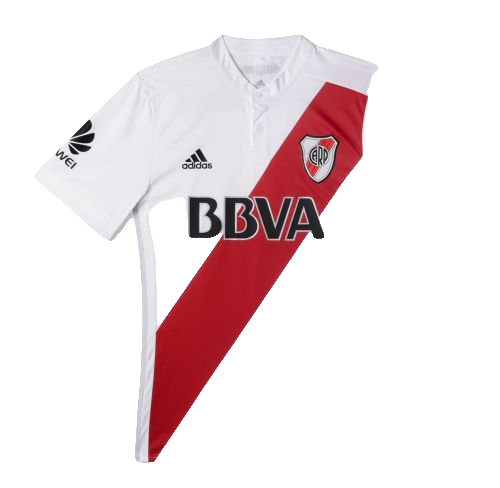
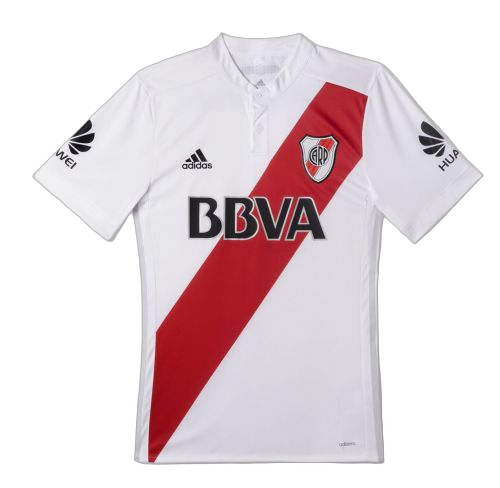
fix: re-cut 13 jerseys whose parts were erased (birefnet model)
The isnet pass erased white-on-white areas on some shirts (Maldini, Messi
2022, etc.). Detected them via alpha-channel analysis (scripts/check_cutouts.py)
and reprocessed only those from the originals with the stronger birefnet-general
model. Re-check now reports 0/70 with holes.

diff --git a/scripts/reprocess_bad.py b/scripts/reprocess_bad.py
@@ -1,0 +1,43 @@
+"""Reprocesa con un modelo mejor (birefnet) solo los recortes detectados como malos.
+Necesita los originales (jpg/jpeg/webp) presentes junto a los PNG.
+"""
+import pathlib
+import numpy as np
+from PIL import Image
+from scipy import ndimage
+from rembg import remove, new_session
+
+root = pathlib.Path("public/camisetas")
+SRC_EXTS = [".jpg", ".jpeg", ".webp"]
+
+
+def is_bad(p):
+    arr = np.array(Image.open(p).convert("RGBA"))
+    alpha = arr[..., 3] > 30
+    fg = int(alpha.sum())
+    if fg == 0:
+        return True
+    cov = fg / alpha.size
+    filled = ndimage.binary_fill_holes(alpha)
+    hole = (int(filled.sum()) - fg) / max(int(filled.sum()), 1)
+    lbl, n = ndimage.label(alpha)
+    sizes = ndimage.sum(np.ones_like(lbl), lbl, range(1, n + 1)) if n else np.array([0])
+    largest = sizes.max() / fg
+    return hole > 0.03 or cov < 0.15 or largest < 0.85
+
+
+bad = [p for p in sorted(root.rglob("*.png")) if is_bad(p)]
+print(f"{len(bad)} recortes a rehacer")
+session = new_session("birefnet-general")
+
+for i, p in enumerate(bad, 1):
+    src = next((p.with_suffix(e) for e in SRC_EXTS if p.with_suffix(e).exists()), None)
+    if not src:
+        print(f"[{i}/{len(bad)}] SIN ORIGINAL {p.name}")
+        continue
+    with Image.open(src) as im:
+        result = remove(im.convert("RGBA"), session=session)
+    result.save(p)
+    print(f"[{i}/{len(bad)}] rehecho {p.name}")
+
+print("Listo.")

diff --git a/scripts/check_cutouts.py b/scripts/check_cutouts.py
@@ -1,0 +1,29 @@
+"""Detecta recortes con partes borradas: huecos internos, baja cobertura o fragmentacion."""
+import pathlib
+import numpy as np
+from PIL import Image
+from scipy import ndimage
+
+root = pathlib.Path("public/camisetas")
+pngs = sorted(root.rglob("*.png"))
+flagged = []
+
+for p in pngs:
+    arr = np.array(Image.open(p).convert("RGBA"))
+    alpha = arr[..., 3] > 30
+    fg = int(alpha.sum())
+    if fg == 0:
+        flagged.append((p, 0.0, 1.0, 0.0))
+        continue
+    coverage = fg / alpha.size
+    filled = ndimage.binary_fill_holes(alpha)
+    hole_ratio = (int(filled.sum()) - fg) / max(int(filled.sum()), 1)
+    lbl, n = ndimage.label(alpha)
+    sizes = ndimage.sum(np.ones_like(lbl), lbl, range(1, n + 1)) if n else np.array([0])
+    largest = sizes.max() / fg
+    if hole_ratio > 0.03 or coverage < 0.15 or largest < 0.85:
+        flagged.append((p, round(coverage, 3), round(hole_ratio, 3), round(largest, 3)))
+
+for p, cov, hole, largest in sorted(flagged, key=lambda x: -x[2]):
+    print(f"cov={cov:.3f} holes={hole:.3f} largest={largest:.3f}  {p.relative_to(root)}")
+print(f"\nFLAGGED {len(flagged)}/{len(pngs)}")
